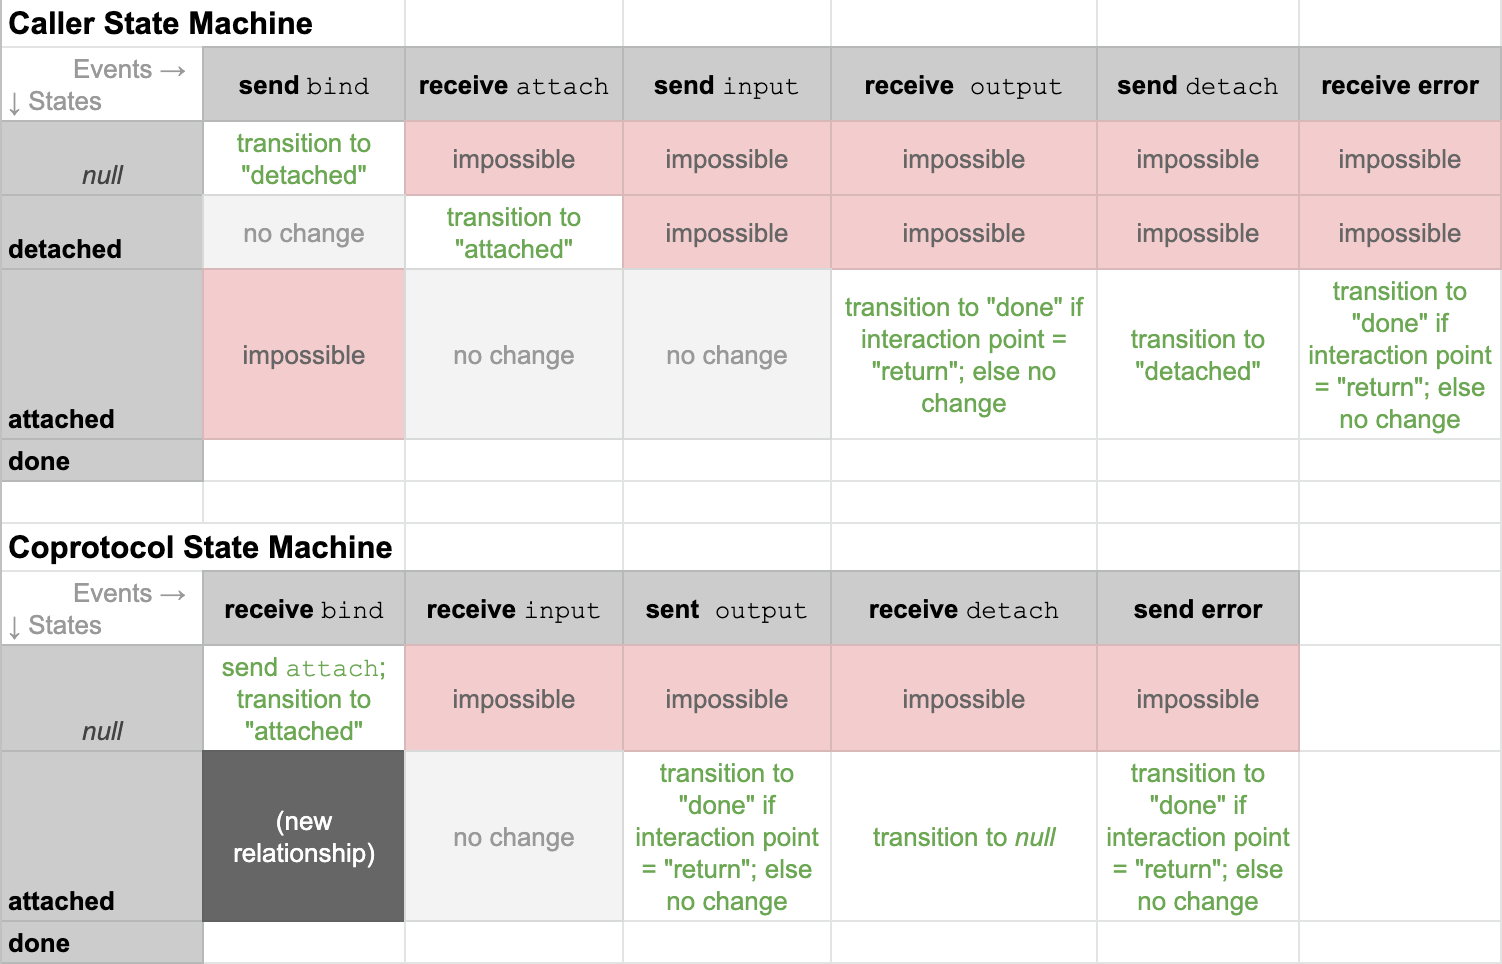
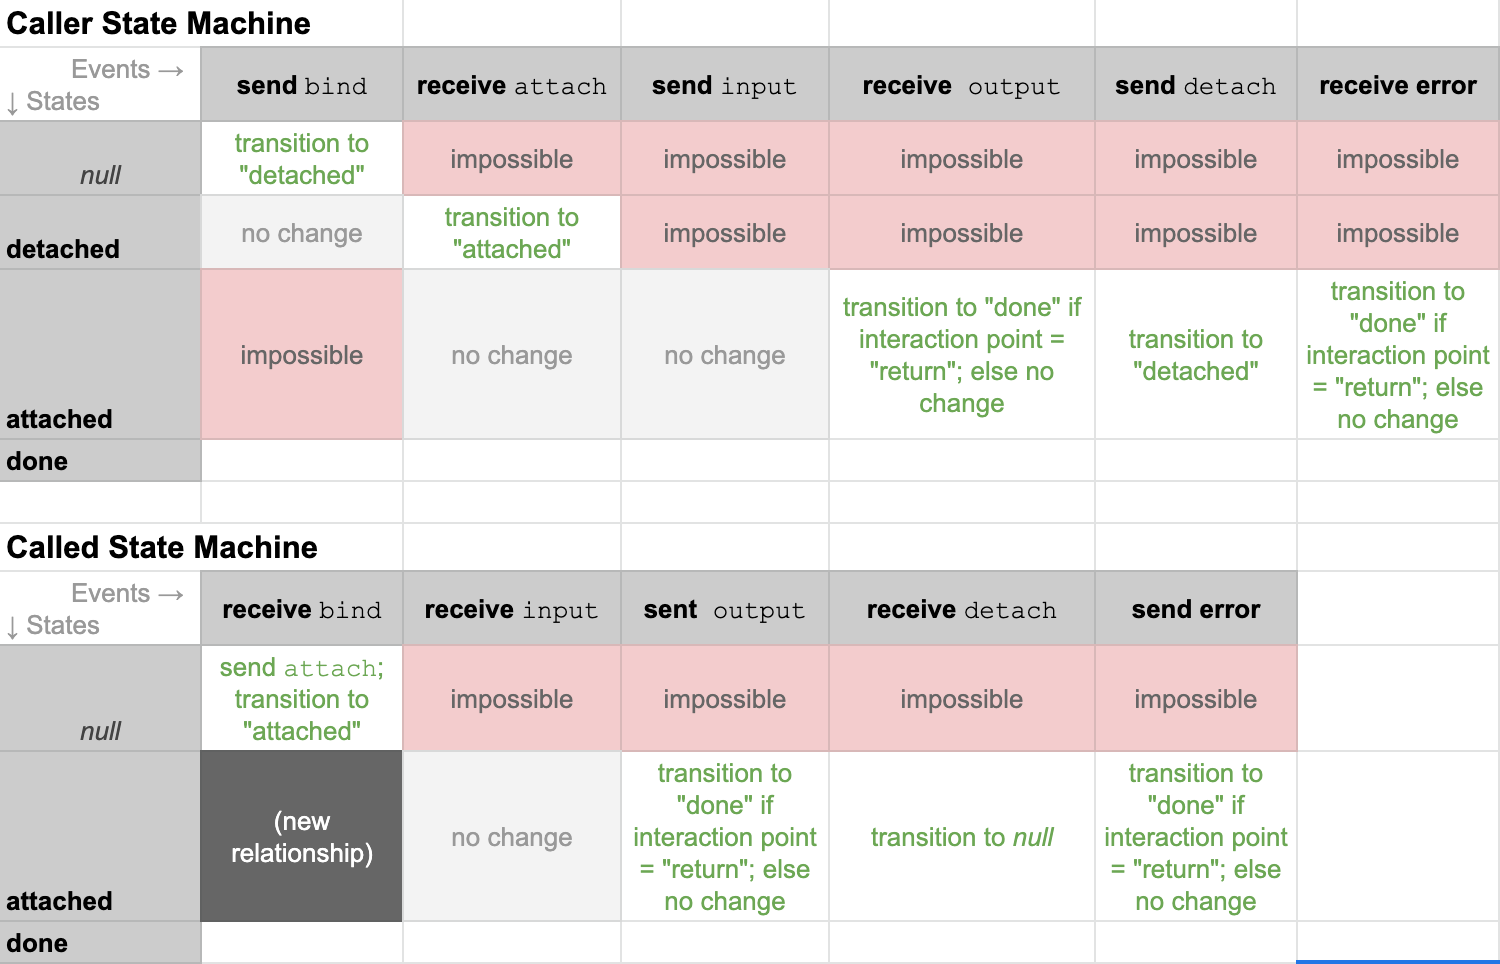
First cut at coprotocol protocol

diff --git a/features/0482-coprotocol-protocol/README.md b/features/0482-coprotocol-protocol/README.md
@@ -24,11 +24,11 @@ The name of this protocol is "Coprotocol Protocol 0.5" It is identified by the P
 
 ### Key Concepts
 
-Please make sure you are familiar with the general concept of coprotocols, as set forth in Aries RFC 0478: Coprotocols. A working knowledge of the terminology and mental model explained there are foundational.
+Please make sure you are familiar with the general concept of coprotocols, as set forth in [Aries RFC 0478](../../concepts/0478-coprotocols/README.md). A working knowledge of the terminology and mental model explained there are foundational.
 
 ### Roles
 
-The `caller` role is played by the entity giving input and getting output. The `coprotocol` is the entity getting input and giving output.
+The `caller` role is played by the entity giving input and getting output. The `called` is the entity getting input and giving output.
 
 ### States
 
@@ -40,14 +40,18 @@ The coprotocols normal state progression is `null` -> `attached` -> `done`.
 
 ### Messages
 
-The protocol consists of 5 messages: `bind`, `attach`, `input`, `output`, `detach` and the adopted `problem-report` (for propagating errors). The protocol begins with a `bind` message that might look like this: 
+>Note: the discussion below is about how to launch and interact with *any* coprotocol. However, for concreteness we frame the walkthru in terms of a co-protocol that makes a payment. You can see an [example definition of such a coprotocol in RFC 0478](../../concepts/0478-coprotocols/README.md#example).
+
+The protocol consists of 5 messages: `bind`, `attach`, `input`, `output`, `detach` and the adopted `problem-report` (for propagating errors).
+
+The protocol begins with a `bind` message sent from `caller` to `called`. This message basically says, "I would like to interact with a new coprotocol instance having the following characteristics and the following mapping of identifiers to roles." It might look like this: 
 
 ```jsonc
 {
     "@id": "4d116a88-1314-4af5-9b3c-848456b8b3dd",
     "@type": "https://didcomm.org/coprotocol/1.0/bind",
-    "goal": "make-payment",
-    "version": ">=1.0",
+    "goal_code": "aries.buy.make-payment",
+    "co_binding_id": null,
     "cast": [
         // Recipient of the bind message (id = null) should be payee.
         {"role": "payee", "id": null},
@@ -57,7 +61,7 @@ The protocol consists of 5 messages: `bind`, `attach`, `input`, `output`, `detac
 }
 ```
 
-When an agent receives this message, is should discover what protocol implementations are available that match the criteria, and sort the candidates by preference. (Note that additional criteria can be added besides those shown here; see the Reference section.) This could involve enumerating not-yet-loaded plugins. It could also involve negotiating a protocol with the remote party (e.g., the DID playing the role of `payer` in the example above) by querying its capabilities using the [Discover Features Protocol](../0031-discover-features/README.md). Of course, the capabilities of remote parties could also be cached to avoid this delay, or they could be predicted without confirmation, if circumstances suggest that's the best tradeoff. Once the candidates are sorted by preference, the best match should be selected, and the agent should generate an `attach` message that tells the caller how to interact:
+When a `called` agent receives this message, it should discover what protocol implementations are available that match the criteria, and sort the candidates by preference. (Note that additional criteria can be added besides those shown here; see the [Reference section](#reference).) This could involve enumerating not-yet-loaded plugins. It could also involve negotiating a protocol with the remote party (e.g., the DID playing the role of `payer` in the example above) by querying its capabilities using the [Discover Features Protocol](../0031-discover-features/README.md). Of course, the capabilities of remote parties could also be cached to avoid this delay, or they could be predicted without confirmation, if circumstances suggest that's the best tradeoff. Once the candidates are sorted by preference, the best match should be selected. The coprotocol is NOT launched, but it is awaiting launch. The `called` agent should now generate an `attach` message that acknowledges the request to bind and tells the `caller` how to interact:
 
 ```jsonc
 {
@@ -69,7 +73,7 @@ When an agent receives this message, is should discover what protocol implementa
 }
 ```
 
-The `@id` of the `bind` message (also the `~thread.pthid` of the `attach` response) becomes a permanent identifier for the __coprotocol binding__. Both the caller and the coprotocol instance code can use it to lookup state as needed. The caller can now kick off/invoke the protocol with an `input` message:
+The `@id` of the `bind` message (also the `~thread.pthid` of the `attach` response) becomes a permanent identifier for the __coprotocol binding__. Both the caller and the coprotocol instance code can use it to lookup state as needed. The `caller` can now kick off/invoke the protocol with an `input` message:
 
 ```jsonc
 {
@@ -87,25 +91,23 @@ The `@id` of the `bind` message (also the `~thread.pthid` of the `attach` respon
 }
 ```
 
-This allows the caller to invoke the bound coprotocol instance, and to pass it any number of named inputs. When the coprotocol instance wants to emit an output, it uses an `output` message:
+This allows the `caller` to invoke the bound coprotocol instance, and to pass it any number of named inputs.
+
+Later, when the coprotocol instance wants to emit an output from `called` to `caller`, it uses an `output` message (in this case, one matching the `preauth` interaction point declared in the [sample coprotocol definition in RFC 0478](../../concepts/0478-coprotocols/README.md#example)):
 
 ```jsonc
 {
     "@id": "9b3c56b8-6a88-f513-4a14-4d118484b3dd",
     "@type": "https://didcomm.org/coprotocol/1.0/output",
     "~thread": { "pthid": "4d116a88-1314-4af5-9b3c-848456b8b3dd"},
-    "interaction_point": "invoke",
+    "interaction_point": "preauth",
     "data": [
-        "amount": 1.23,
-        "currency": "INR",
-        "bill_of_sale": {
-            // describes what's being purchased
-        }
+        "code": "6a884d11-13149b3c",
     ]
 }
 ```
 
-If a caller wants to detach, it uses a detach message:
+If a `caller` wants to detach, it uses a `detach` message. This leaves the coprotocol running on `called`; all inputs that it emits are sent to the bitbucket, and it advances on its normal state trajectory as if it were a wholly independent protocol:
 
 ```jsonc
 {
@@ -115,7 +117,7 @@ If a caller wants to detach, it uses a detach message:
 }
 ```
 
-A caller can re-attach by sending a new attach message. This is also the way a caller can attach to an already-running protocol (e.g., to debug it or to begin interacting with it long after it was invoked).
+A `caller` can re-attach by sending a new `bind` message; this time, the `co_binding_id` field should have the coprotocol binding id from the original `attach` message. Other fields in the message are optional; if present, they constitute a check that the binding in question has the properties the caller expects. The reattachment is confrimed by a new `attach` message.
 
 ## Reference
 
@@ -125,9 +127,8 @@ A caller can re-attach by sending a new attach message. This is also the way a c
     "@id": "4d116a88-1314-4af5-9b3c-848456b8b3dd",
     "@type": "https://didcomm.org/coprotocol/1.0/bind",
     // I'd like to be bound to a coprotocol that achieves this goal.
-    "goal": "make-payment",
-    // Specifies a version of the stated goal.
-    "version": ">=1.0",
+    "goal_code": "aries.buy.make-payment",
+    "co_binding_id": 
     // What is the intent about who plays which roles?
     "cast": [
         // Recipient of the bind message (id = null) should be payee.
@@ -171,42 +172,12 @@ A caller can re-attach by sending a new attach message. This is also the way a c
 }
 ```
 
-### Constraints
-
-Many protocols have constraints that help parties build trust.
-For example, in buying a house, the protocol includes such things as
-commission paid to realtors to guarantee their incentives, title insurance,
-earnest money, and a phase of the process where a home inspection takes
-place. If you are documenting a protocol that has attributes like
-these, explain them here. If not, the section can be omitted.
-
-### Examples
-
-This section is optional. It can be used to show alternate flows through
-the protocol.
-
 ### Collateral
 
 This section is optional. It could be used to reference files, code,
 relevant standards, oracles, test suites, or other artifacts that would
 be useful to an implementer. In general, collateral should be checked in
 with the RFC.
-
-### Localization
-
-If communication in the protocol involves humans, then localization of
-message content may be relevant. Default settings for localization of
-all messages in the protocol can be specified in an `l10n.json` file
-described here and checked in with the RFC. See ["Decorators at Message
-Type Scope"](https://github.com/hyperledger/aries-rfcs/tree/master/concepts/0011-decorators#decorator-scope)
-in the [Localization RFC](https://github.com/hyperledger/aries-rfcs/tree/master/features/0043-l10n).
-
-### Message Catalog
-
-If the protocol has a formally defined catalog of codes (e.g., for errors
-or for statuses), define them in this section. See ["Message Codes and
-Catalogs"](https://github.com/hyperledger/aries-rfcs/blob/master/features/0043-l10n/README.md#message-codes-and-catalogs)
-in the [Localization RFC](https://github.com/hyperledger/aries-rfcs/blob/master/features/0043-l10n).
 
 ## Drawbacks
 

diff --git a/concepts/0478-coprotocols/README.md b/concepts/0478-coprotocols/README.md
@@ -89,7 +89,7 @@ Suppose we are writing a credential issuance protocol, and we want to use coprot
 We do a little research and discover that many DIDComm-based payment protocols exist. Three of them advertise support for the same coprotocol interface:
 
 ```text
-goal: make-payment
+goal: aries.buy.make-payment
 payee:
   get:
       - invoke(amount: float, currency: str, bill_of_sale: str) @ null
@@ -101,7 +101,7 @@ payee:
 
 In plain English, the declared coprotocol semantics are:
 
->This is a coprotocol interface for protocols that facilitate the 'make-payment' goal version 1.0. The `payee` role in this coprotocol gets input at two interaction points, "invoke" and "proceed". Invoke happens when state is null (at launch); "proceed" happens when state is "requested" or "waiting-for-commit." At invoke, the caller of the co-protocol provides 3 inputs: an amount, a currency, and a bill of sale. At proceed, the caller decides whether to continue. Implementations of this coprotocol interface also give output at two interaction points, "preauth" and "return." At preauth, the output is a string that's a preauth code; at return, the output is a confirmation code.
+>This is a coprotocol interface for protocols that facilitate the `aries.buy.make-payment` [goal code](https://github.com/hyperledger/aries-rfcs/blob/2aba468a9a4daae69e42ba764124ab602dd66982/concepts/0519-goal-codes/README.md). The `payee` role in this coprotocol gets input at two interaction points, "invoke" and "proceed". Invoke happens when state is null (at launch); "proceed" happens when state is "requested" or "waiting-for-commit." At invoke, the caller of the co-protocol provides 3 inputs: an amount, a currency, and a bill of sale. At proceed, the caller decides whether to continue. Implementations of this coprotocol interface also give output at two interaction points, "preauth" and "return." At preauth, the output is a string that's a preauth code; at return, the output is a confirmation code.
 
 ##### Simplified description only
 
@@ -132,8 +132,6 @@ More about optional fields and syntax in a coprotocol declaration.
 
 How to add a coprotocol decl to a protocol.
 
-Where to declare a goal.
-
 ## Drawbacks
 
 Why should we *not* do this?
@@ -147,26 +145,7 @@ choosing them?
 
 ## Prior art
 
-Discuss prior art, both the good and the bad, in relation to this proposal.
-A few examples of what this can include are:
-
-- Does this feature exist in other SSI ecosystems and what experience have
-their community had?
-- For other teams: What lessons can we learn from other attempts?
-- Papers: Are there any published papers or great posts that discuss this?
-If you have some relevant papers to refer to, this can serve as a more detailed
-theoretical background.
-
-This section is intended to encourage you as an author to think about the
-lessons from other implementers, provide readers of your proposal with a
-fuller picture. If there is no prior art, that is fine - your ideas are
-interesting to us whether they are brand new or if they are an adaptation
-from other communities.
-
-Note that while precedent set by other communities is some motivation, it
-does not on its own motivate an enhancement proposal here. Please also take
-into consideration that Aries sometimes intentionally diverges from common
-identity features.
+Coroutines &mdash; the computer science scaffolding against which coprotocols are modeled &mdash; are extensively discussed in the literature of various compiler developer communities. The discussion about adding support for this feature in Rust is particularly good background reading: https://users.rust-lang.org/t/coroutines-and-rust/9058
 
 ## Unresolved questions
 
